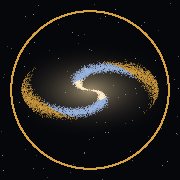
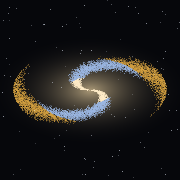
Stop the piece flashing to its destination, and the Holdings list moving
Two defects found by playing it, both of the family this codebase keeps
producing: something moves out from under the finger.

The piece jumped to its destination and back before walking. The engine
finishes a move before it returns, so a piece's real position is already where
it ends up; any render between the engine call and the first step of the walk
draws it arriving, and the walk then snaps it back to start. Three call sites
did exactly that — rolling, amending a manifest, and a card that moves you.
They now pin the piece at its origin before rendering.

Buying garrisons rebuilt the whole Holdings sheet on every purchase, which
threw away the scrolled element, put the list back at the top, and walked the
row out from under the thumb that had just tapped it — so the next tap landed
on a different holding. The sheet now updates in place: the row count cannot
change from that screen, so only the state text and the buttons need to move.
The tithe screen had the same flaw and the same fix, and the control block has
reserved width so buttons stop sliding sideways between builds.

Both are locked down by the probe, and both checks were verified to fail when
the fix is removed rather than merely passing:
  "the piece jumped straight to square 20 before walking back to 14"

The icon's ring was deliberate and was wrong — the iOS squircle clipped it top
and bottom, so it read as a broken circle rather than a rule. Removed, and the
disc given the room instead.
[…]

diff --git a/docs/ui.js b/docs/ui.js
@@ -333,15 +333,18 @@ function renderLog() {
 }
 
 /* ============================================================ sheets */
-function sheet(inner) {
-  $('sheetRoot').innerHTML = `<div class="scrim"><div class="sheet"><div class="grab"></div>${inner}</div></div>`;
-  $('sheetRoot').querySelectorAll('[data-fn]').forEach(b => {
+function bindSheet(scope) {
+  scope.querySelectorAll('[data-fn]').forEach(b => {
     b.onclick = () => {
       Score.resume();
       const [name, ...args] = b.dataset.fn.split('|');
       ACTIONS[name](...args);
     };
   });
+}
+function sheet(inner) {
+  $('sheetRoot').innerHTML = `<div class="scrim"><div class="sheet"><div class="grab"></div>${inner}</div></div>`;
+  bindSheet($('sheetRoot'));
 }
 function closeSheet() { $('sheetRoot').innerHTML = ''; }
 const btns = list => `<div class="mbtns">${list.map(([label, fn, cls = '']) =>
@@ -417,12 +420,18 @@ function tick() {
 
 // Walks a piece square by square, then continues. The engine has already
 // finished the move; this is only the eye catching up.
+// The engine finishes a move before it returns, so a piece's real position is
+// already its destination. Anything that renders between the engine call and
+// the first step of the walk shows the piece arriving and then snapping back to
+// start again. hold() pins it where it was, and must be called BEFORE any
+// render that follows an engine move.
+function hold(p, from) { anim = { i: p.i, pos: from }; }
+
 function walk(path, done) {
-  if (!path || !path.length) { done(); return; }
+  if (!path || !path.length) { anim = null; renderBoard(); done(); return; }
   const p = E.current(G);
-  let k = 0;
-  anim = { i: p.i, pos: path[0] };
-  renderBoard();
+  if (!anim || anim.i !== p.i) anim = { i: p.i, pos: path[0] };
+  let k = -1;                       // the piece is already held at its origin
   const step = () => {
     k++;
     if (k >= path.length) { anim = null; renderBoard(); done(); return; }
@@ -447,8 +456,10 @@ for (const k of Object.keys(ACTIONS)) window[k] = ACTIONS[k];
 function act_roll() {
   if (G.phase !== 'roll') return;
   const p = E.current(G);
+  const from = p.pos;
   const r = E.roll(G);
   if (!r) return;
+  hold(p, from);                    // before the render, or it flashes to the destination
   busy = true; render();
   tumbleDice(G.dice, () => {
     if (r.held) { busy = false; tick(); return; }
@@ -467,8 +478,11 @@ function act_resolve() {
 }
 
 function act_amend() {
+  const p = E.current(G);
+  const from = p.pos;
   const r = E.amendManifest(G);
   if (!r) return;
+  hold(p, from);
   busy = true; render();
   walk(r.path, () => { busy = false; E.resolveLanding(G); tick(); });
 }
@@ -480,9 +494,12 @@ function act_end() {
 }
 
 function runCard() {
+  const p = E.current(G);
+  const from = p.pos;
   const r = E.applyCard(G);
   closeSheet();
   if (!r) { tick(); return; }
+  if (r.path && r.path.length) hold(p, from);
   busy = true; render();
   walk(r.path, () => { busy = false; tick(); });
 }
@@ -647,11 +664,25 @@ function showCard() {
 }
 
 /* ---------------------------------------------------------- manage */
+const manageState = h => h.mortgaged ? 'MORTGAGED' : h.citadel ? 'CITADEL'
+  : `${h.garrisons} garrison${h.garrisons === 1 ? '' : 's'}`;
+
+function manageControls(p, h) {
+  let c = '';
+  if (E.canBuild(G, p, h.sq)) c += `<button data-fn="build|${h.sq}">+G</button>`;
+  if (E.canRaiseCitadel(G, p, h.sq)) c += `<button data-fn="raiseCitadel|${h.sq}">◆</button>`;
+  if (h.garrisons > 0 || h.citadel) c += `<button data-fn="sellDev|${h.sq}">−</button>`;
+  if (!h.garrisons && !h.citadel) {
+    c += `<button data-fn="toggleMortgage|${h.sq}">${h.mortgaged ? 'Redeem' : 'Mortgage'}</button>`;
+  }
+  return c;
+}
+
 function showManage() {
   const p = E.current(G);
-  let s = `<h3>Holdings</h3><div class="sub">${esc(p.name)} · ${money(p.cash)}${p.debt ? ` · debt ${money(p.debt)}` : ''}</div>
-    <div class="stat"><span>Upkeep per turn</span><span>${money(E.upkeep(p))}</span></div>
-    <div class="stat"><span>Pools</span><span>${G.garrisonPool} garrisons · ${G.citadelPool} citadels</span></div>`;
+  let s = `<h3>Holdings</h3><div class="sub" data-mg="who"></div>
+    <div class="stat"><span>Upkeep per turn</span><span data-mg="upkeep"></span></div>
+    <div class="stat"><span>Pools</span><span data-mg="pools"></span></div>`;
   if (p.debt) {
     s += `<div class="warnbox">A debt marker blocks buying, building and contracts until it is cleared.
       It grows ${Math.round(RULES.debtInterest * 100)}% every turn.</div>`;
@@ -660,34 +691,55 @@ function showManage() {
 
   for (const h of [...p.holdings].sort((a, b) => a.sq - b.sq)) {
     const b = BOARD[h.sq];
-    const state = h.mortgaged ? 'MORTGAGED' : h.citadel ? 'CITADEL'
-      : `${h.garrisons} garrison${h.garrisons === 1 ? '' : 's'}`;
-    let controls = '';
-    if (E.canBuild(G, p, h.sq)) controls += `<button data-fn="build|${h.sq}">+G</button>`;
-    if (E.canRaiseCitadel(G, p, h.sq)) controls += `<button data-fn="raiseCitadel|${h.sq}">◆</button>`;
-    if (h.garrisons > 0 || h.citadel) controls += `<button data-fn="sellDev|${h.sq}">−</button>`;
-    if (!h.garrisons && !h.citadel) {
-      controls += `<button data-fn="toggleMortgage|${h.sq}">${h.mortgaged ? 'Redeem' : 'Mortgage'}</button>`;
-    }
-    s += `<div class="row">
+    s += `<div class="row" data-row="${h.sq}">
       <div><div style="color:${b.s ? SETS[b.s].c : 'var(--body)'};font-size:15px">${esc(b.n)}</div>
-      <div style="font-family:var(--m);font-size:11.5px;color:var(--dim);margin-top:2px">
-      ${state} · rent ${money(E.rentOf(G, h.sq, 7))}</div></div>
-      <div class="rowbtns">${controls}</div></div>`;
+      <div class="rowState" style="font-family:var(--m);font-size:11.5px;color:var(--dim);margin-top:2px"></div></div>
+      <div class="rowbtns">${manageControls(p, h)}</div></div>`;
   }
   if (p.debt) s += btns([[`Repay ${money(Math.min(p.cash, p.debt))}`, 'repay', 'dgr wide']]);
   s += btns([['Done', 'closeSheet', 'pri wide']]);
   sheet(s);
+  refreshManage();
 }
-function build(sq) { E.build(G, E.current(G), +sq); save(); render(); showManage(); }
-function raiseCitadel(sq) { E.raiseCitadel(G, E.current(G), +sq); save(); render(); showManage(); }
-function sellDev(sq) { E.sellDevelopment(G, E.current(G), +sq); save(); render(); showManage(); }
+
+// Updates the open Holdings sheet IN PLACE.
+//
+// Rebuilding the whole sheet after every purchase threw away the scrolled
+// element and put the list back at the top, so the row you had just tapped
+// walked out from under your thumb and the next tap landed on a different
+// holding. The row count never changes here — you cannot acquire or lose a
+// property from this sheet — so only the text and the buttons need to move.
+function refreshManage() {
+  const root = $('sheetRoot');
+  if (!root.querySelector('[data-mg="upkeep"]')) return;      // sheet not open
+  const p = E.current(G);
+  const set = (sel, text) => { const el = root.querySelector(sel); if (el) el.textContent = text; };
+  set('[data-mg="who"]', `${p.name} · ${money(p.cash)}${p.debt ? ` · debt ${money(p.debt)}` : ''}`);
+  set('[data-mg="upkeep"]', money(E.upkeep(p)));
+  set('[data-mg="pools"]', `${G.garrisonPool} garrisons · ${G.citadelPool} citadels`);
+
+  for (const h of p.holdings) {
+    const row = root.querySelector(`[data-row="${h.sq}"]`);
+    if (!row) continue;
+    row.querySelector('.rowState').textContent = `${manageState(h)} · rent ${money(E.rentOf(G, h.sq, 7))}`;
+    const controls = row.querySelector('.rowbtns');
+    const next = manageControls(p, h);
+    if (controls.innerHTML !== next) { controls.innerHTML = next; bindSheet(controls); }
+  }
+  const repayBtn = root.querySelector('[data-fn="repay"]');
+  if (repayBtn) repayBtn.textContent = `Repay ${money(Math.min(p.cash, p.debt))}`;
+}
+
+const afterManage = () => { save(); render(); refreshManage(); };
+function build(sq) { E.build(G, E.current(G), +sq); afterManage(); }
+function raiseCitadel(sq) { E.raiseCitadel(G, E.current(G), +sq); afterManage(); }
+function sellDev(sq) { E.sellDevelopment(G, E.current(G), +sq); afterManage(); }
 function toggleMortgage(sq) {
   const p = E.current(G), h = E.holding(p, +sq);
   if (h.mortgaged) E.redeem(G, p, +sq); else E.mortgage(G, p, +sq);
-  save(); render(); showManage();
+  afterManage();
 }
-function repay() { E.repayDebt(G, E.current(G)); save(); render(); showManage(); }
+function repay() { E.repayDebt(G, E.current(G)); afterManage(); }
 
 /* ---------------------------------------------------------- tithe / revolt */
 function showTithe() {
@@ -701,7 +753,18 @@ function showTithe() {
       `<button class="opt${p.tithe === r ? ' on' : ''}" data-fn="setTithe|${r}">${r}%</button>`).join('')}</div>
     ${btns([['Done', 'closeSheet', 'pri wide']])}`);
 }
-function setTithe(r) { E.setTithe(G, E.current(G), +r); save(); render(); showTithe(); }
+function setTithe(r) {
+  E.setTithe(G, E.current(G), +r);
+  save(); render();
+  // In place, for the same reason Holdings is: rebuilding the sheet moves the
+  // buttons out from under the thumb that just pressed one.
+  const p = E.current(G), root = $('sheetRoot');
+  root.querySelectorAll('[data-fn^="setTithe|"]').forEach(b =>
+    b.classList.toggle('on', +b.dataset.fn.split('|')[1] === p.tithe));
+  const sub = root.querySelector('.sub');
+  if (sub) sub.textContent =
+    `${p.vassals.length} vassal${p.vassals.length > 1 ? 's' : ''} · upkeep ${money(E.upkeep(p))}/turn`;
+}
 
 function showRevolt() {
   const p = E.current(G);

diff --git a/docs/index.html b/docs/index.html
@@ -197,7 +197,9 @@ th{color:var(--dim);font-weight:400;font-size:10px;letter-spacing:.08em;text-tra
 td:first-child,th:first-child{text-align:left}
 .row{display:flex;justify-content:space-between;align-items:center;gap:10px;
   border-bottom:1px solid var(--rule);padding:11px 0}
-.rowbtns{display:flex;gap:6px;flex:0 0 auto}
+/* Reserved so the control block does not slide sideways as buttons appear
+   and disappear between builds. */
+.rowbtns{display:flex;gap:6px;flex:0 0 auto;justify-content:flex-end;min-width:124px}
 .rowbtns button{min-height:44px;min-width:52px;padding:8px 10px;font-size:12px}
 .pick{display:block;width:100%;text-align:left;padding:12px;margin-bottom:6px;font-size:14px;
   font-family:var(--s);min-height:52px}

diff --git a/docs/sw.js b/docs/sw.js
@@ -7,7 +7,7 @@
 // signal" is worth more than fifty milliseconds.
 //
 // Swap the order if this ever stops changing weekly.
-const CACHE = 'grandiose-v3';
+const CACHE = 'grandiose-v4';
 const FILES = [
   './',
   './index.html',
